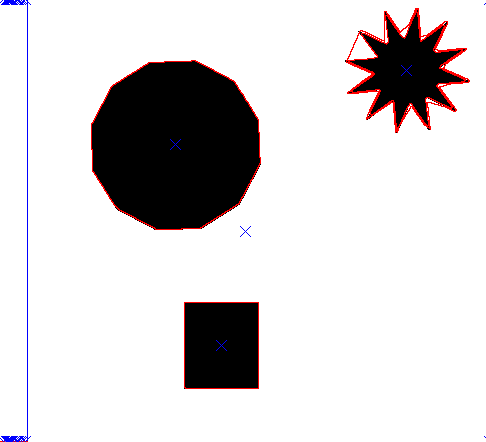
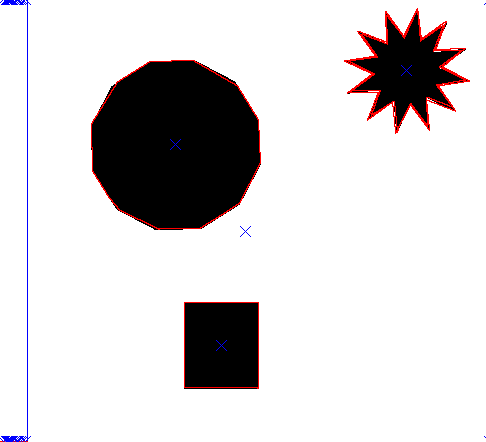
Poprawka algorytmu.

diff --git a/BitmapToVectorImageConverter/algorithms/processing/contours/psweeping.py b/BitmapToVectorImageConverter/algorithms/processing/contours/psweeping.py
@@ -268,8 +268,40 @@ def p2l_distance(ax, ay, bx, by, cx, cy):
     dist = Sqrt(r1*r1-s*s)
     return dist
 
-def contours_simplification(slines, eps):
-    pass
+def contours_simplifications(slines, eps):
+    slines2 = {}
+    for (seg,sline) in slines.items():
+        c = curve_simplification(sline, eps)
+        slines2[seg] = c
+    return slines2
 
-def curves_simplifications(slines, eps):
-    pass
+def curve_simplification(sline, eps):
+    n  = len(sline)
+    if n < 2:
+        return sline
+
+    p1 = (p1y,p1x) = sline[0]
+    p2 = (p2y,p2x) = sline[n-1]
+
+    dMaxIdx = -1
+    dMax = -1.0
+
+    for i in range(1, n-1):
+        (cy, cx) = sline[i]
+        d = p2l_distance(p1x, p1y, p2x,p2y, cx,cy)
+        if d > dMax:
+            dMax = d
+            dMaxIdx = i
+
+    if dMax > eps:
+        c1 = curve_simplification(sline[0:dMaxIdx+1],eps)
+        c2 = curve_simplification(sline[dMaxIdx:n],eps)
+
+        nc1 = len(c1)
+        nc2 = len(c2)
+        return c1[0:(nc1-1)] + c2
+    else:
+        return [p1,p2]
+
+
+

diff --git a/BitmapToVectorImageConverter/algorithms/segmentator.py b/BitmapToVectorImageConverter/algorithms/segmentator.py
@@ -46,8 +46,8 @@ print("[{}] Calculating segments' parameters ...".format(datetime.now()))
 cmask = detect_contours(segments, None)
 cmaskImg = m.Clone()
 clines = calculate_contour_lines(segments, cmask)
-slines = detect_border_points(segments, cmask, clines)
-
+# slines = detect_border_points(segments, cmask, clines)
+slines = contours_simplifications(clines, 3)
 
 c = Array.CreateInstance(Byte, 3)
 c[0] = Byte(0)

diff --git a/BitmapToVectorImageConverter/algorithms/identifier.py b/BitmapToVectorImageConverter/algorithms/identifier.py
@@ -121,7 +121,8 @@ save_color("csegments2.png", csegments2, width, height, stride)
 cmask = detect_contours(segments2, None)
 cmaskImg = m.Clone()
 clines = calculate_contour_lines(segments2, cmask)
-slines = detect_border_points(segments2, cmask, clines)
+slines = contours_simplifications(clines, 5)
+# slines = detect_border_points(segments2, cmask, clines)
 
 print ("Clines: {}".format(clines))
 
